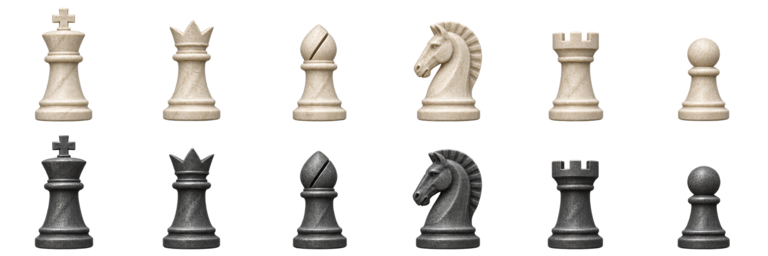
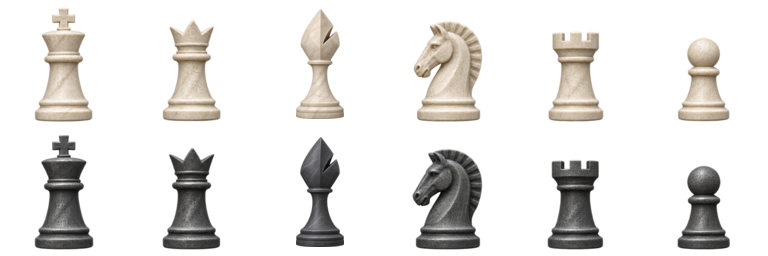
Drop the ribbon on the selected game; the highlight is enough

Changed region(s): [[0.375, 0.5312, 0.4688, 1.0], [0.375, 0.0312, 0.4688, 0.5]]

diff --git a/src/app.rs b/src/app.rs
@@ -626,11 +626,6 @@ impl App {
                                     .selected(selected)
                                     .frame(selected),
                             );
-                            if selected {
-                                // A ribbon marks the open game, like a bookmark between pages.
-                                let r = response.rect;
-                                ribbon(ui.painter(), &cloth, r.left() + 12.0, r.top(), Vec2::new(11.0, 22.0));
-                            }
                             if response.clicked() {
                                 self.select(row.id);
                             }
@@ -1551,7 +1546,7 @@ impl App {
                 let (column, lift) = match piece.role {
                     Role::King => (0, 0.0),
                     Role::Queen => (1, 0.04),
-                    Role::Bishop => (2, 0.05),
+                    Role::Bishop => (2, 0.0),
                     Role::Knight => (3, 0.05),
                     Role::Rook => (4, 0.07),
                     Role::Pawn => (5, 0.09),
@@ -1599,7 +1594,7 @@ impl App {
                     (_, true, true) => Color32::from_rgb(241, 239, 169),
                     (_, true, false) => Color32::from_rgb(181, 193, 119),
                     (_, false, true) => Color32::from_rgb(255, 250, 231),
-                    (_, false, false) => Color32::from_rgb(113, 156, 122),
+                    (_, false, false) => Color32::from_rgb(128, 157, 132),
                 };
                 let cloth_uv = egui::Rect::from_min_size(
                     egui::pos2(col as f32 * 0.5, row as f32 * 0.5),

diff --git a/docs/design.md b/docs/design.md
@@ -31,4 +31,4 @@ Use broad, soft light and short contact shadows. Let fine grain and a shallow be
 
 ## Board reference
 
-The board uses lighter tints for playability. The current tint inputs are very light beige `#FFFAE7` and muted green `#719C7A`. The [bookcloth texture](../assets/bookcloth.png) is applied over both colors and repeated four times across each board axis. Keep the weave this fine and check it at the default and smallest supported window sizes. Check both piece colors on both squares and keep move highlights easy to spot.
+The board uses lighter tints for playability. The current tint inputs are very light beige `#FFFAE7` and muted sage green `#809D84`. The [bookcloth texture](../assets/bookcloth.png) is applied over both colors and repeated four times across each board axis. Keep the weave this fine and check it at the default and smallest supported window sizes. Check both piece colors on both squares and keep move highlights easy to spot.
